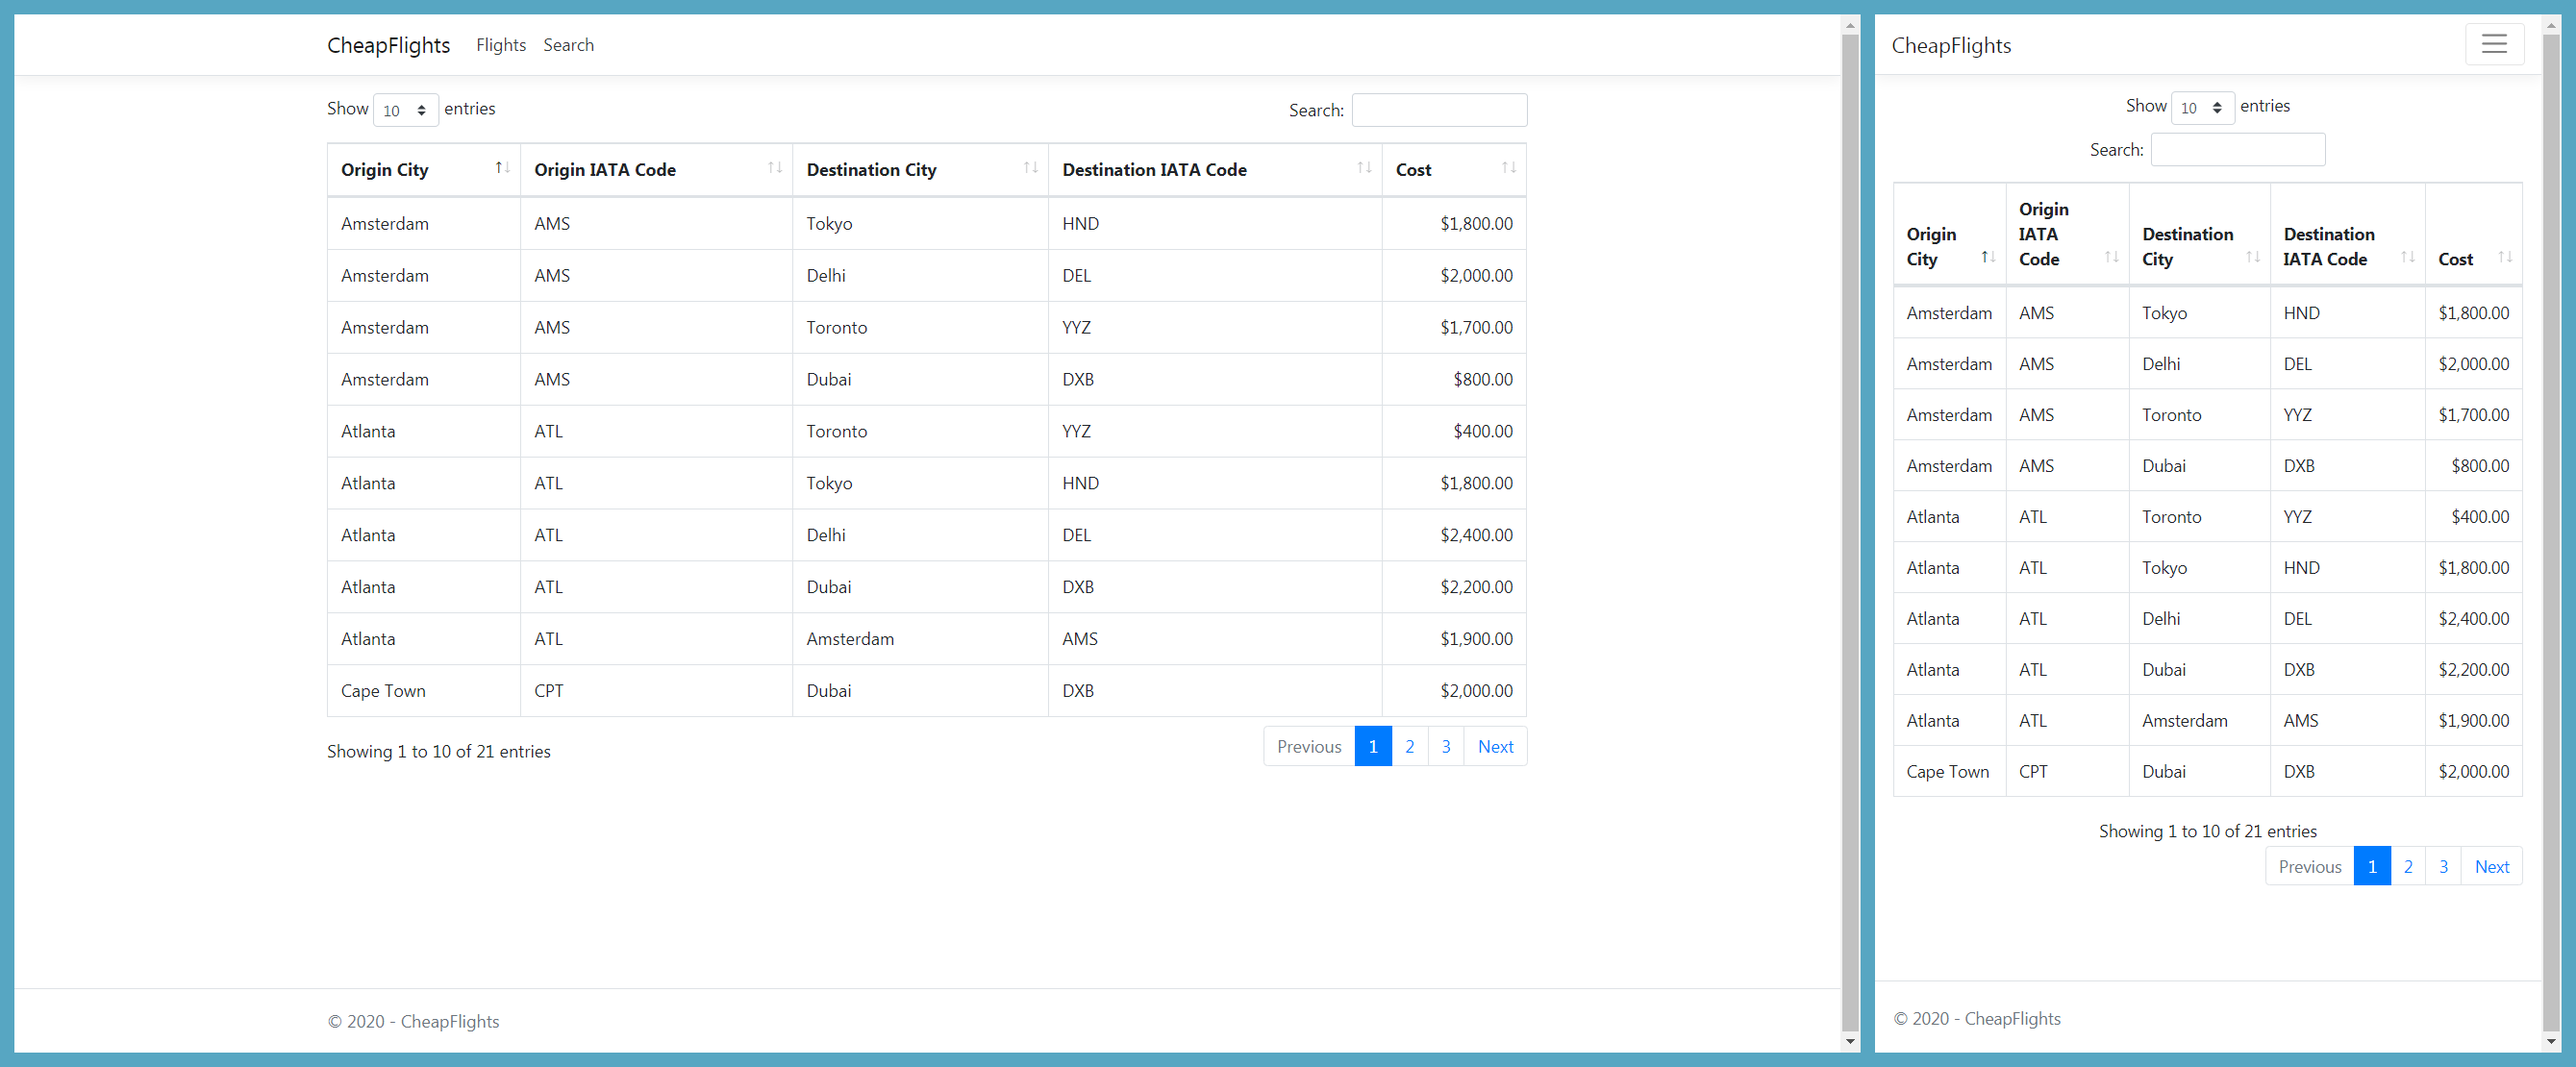
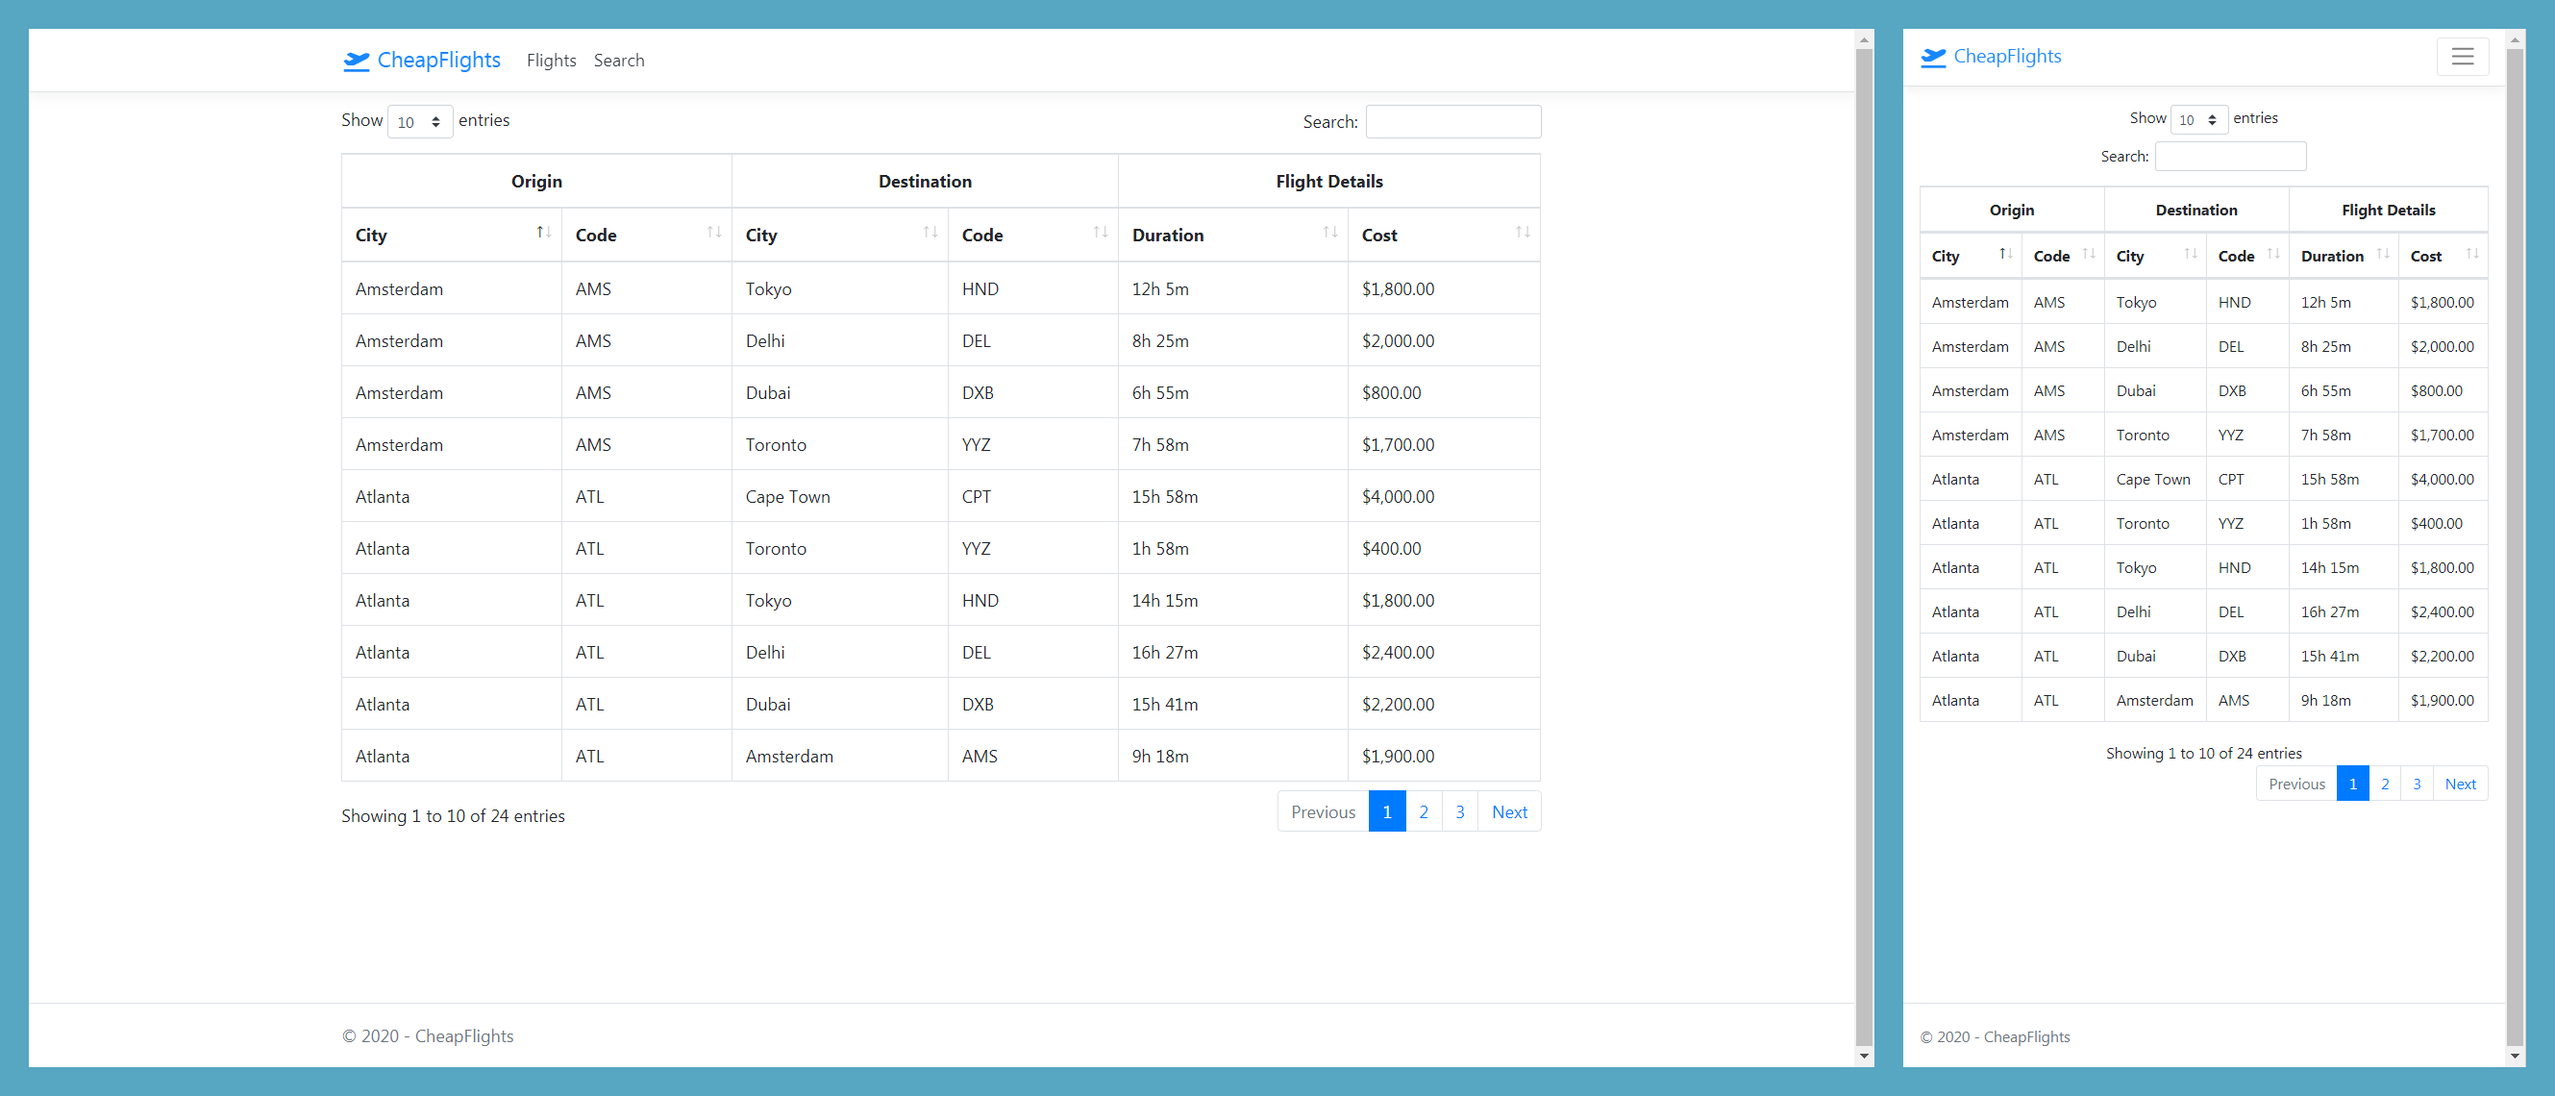
Updated README screenshots, and improved itinerary suggestion

diff --git a/src/Data/DataInitializer.cs b/src/Data/DataInitializer.cs
@@ -120,7 +120,7 @@ namespace CheapFlights.Data {
                 context.Flights.Add(new FlightModel() {
                     Origin      = context.Airports.First(airport => airport.IataCode == "DXB"),
                     Destination = context.Airports.First(airport => airport.IataCode == "CPT"),
-                    Cost = 2000.00M,
+                    Cost = 1400.00M,
                     Duration = new TimeSpan(9, 55, 0)
                 });
                 context.Flights.Add(new FlightModel() {
@@ -169,9 +169,26 @@ namespace CheapFlights.Data {
                     Origin      = context.Airports.First(airport => airport.IataCode == "DEL"),
                     Destination = context.Airports.First(airport => airport.IataCode == "ATL"),
                     Cost = 2200.00M,
-                    Duration = new TimeSpan(16,27, 0)
+                    Duration = new TimeSpan(16, 27, 0)
                 });
-
+                context.Flights.Add(new FlightModel() {
+                    Origin      = context.Airports.First(airport => airport.IataCode == "ATL"),
+                    Destination = context.Airports.First(airport => airport.IataCode == "CPT"),
+                    Cost = 4000.00M,
+                    Duration = new TimeSpan(15, 58, 0)
+                });
+                context.Flights.Add(new FlightModel() {
+                    Origin      = context.Airports.First(airport => airport.IataCode == "ATL"),
+                    Destination = context.Airports.First(airport => airport.IataCode == "CPT"),
+                    Cost = 4600.00M,
+                    Duration = new TimeSpan(15, 58, 0)
+                });
+                context.Flights.Add(new FlightModel() {
+                    Origin      = context.Airports.First(airport => airport.IataCode == "YYZ"),
+                    Destination = context.Airports.First(airport => airport.IataCode == "CPT"),
+                    Cost = 4400.00M,
+                    Duration = new TimeSpan(16, 1, 0)
+                });
                 context.SaveChanges();
             }
         }

diff --git a/src/Controllers/FlightsController.cs b/src/Controllers/FlightsController.cs
@@ -97,14 +97,14 @@ namespace CheapFlights.Controllers {
 
             // generate flight itineraries from paths
             var itineraries = paths
-                .Select((flights, index) => {
+                .Select(flights => {
                     var totalCost = flights.Sum(flight => flight.Cost);
                     var totalDurationTicks = flights.Sum(flight => flight.Duration.Ticks);
                     return new ItineraryViewModel() {
                         TotalCost = totalCost,
                         TotalDuration = new TimeSpan(totalDurationTicks),
                         Flights = flights,
-                        IsSuggested = index == 0,
+                        IsSuggested = false,
                         IsBestDeal = totalCost == bestDeal,
                         IsShortestDuration = totalDurationTicks == shortestDuration,
                         IsDirect = flights.Count() == 1
@@ -115,6 +115,7 @@ namespace CheapFlights.Controllers {
                     _HourWeight * (double)itinerary.TotalDuration.TotalHours +
                     _SegmentWeight * (double)itinerary.Flights.Count())
                 .ToList();
+            itineraries.First().IsSuggested = true; // suggest the itinerary that is ranked the best
 
             return PartialView("_Itineraries", itineraries);
         }

diff --git a/README.md b/README.md
@@ -15,8 +15,5 @@ dotnet run --project src
 ### Flights
 ![Flights](docs/Flights.png)
 
-### Search (Empty)
-![Search (Empty)](docs/SearchEmpty.png)
-
 ### Search
 ![Search](docs/Search.png)
